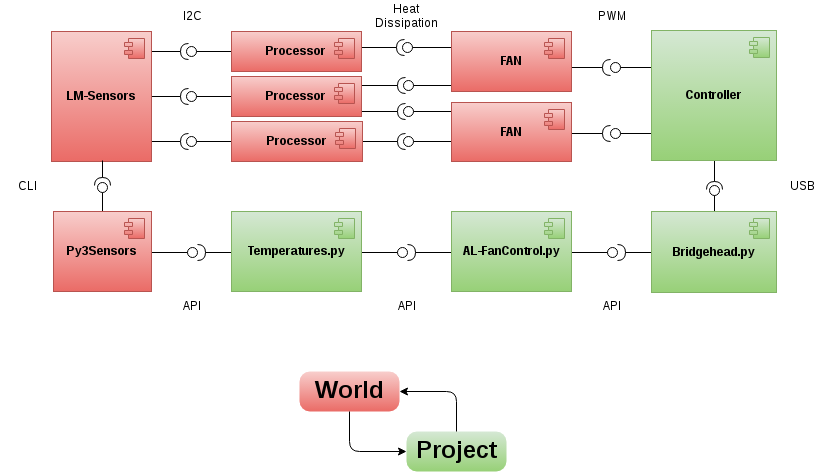
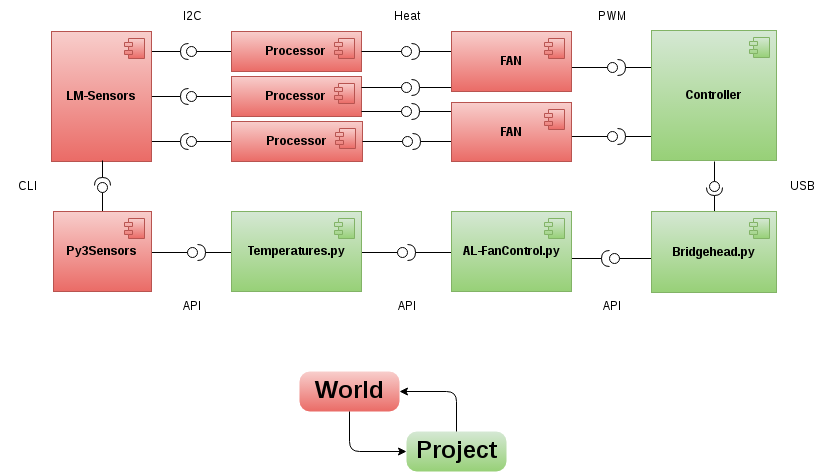
extend description of high level architecture

diff --git a/README.md b/README.md
@@ -1,17 +1,29 @@
 # AL-FanControl
 
-An application-level fan control for desktop PCs using Python, Arduino and PWM fans.
+An application-level fan control for desktop PCs
+    using Linux, Python, Arduino and PWM fans.
 
 ## Architecture
 
 AL-FanControl controls fans according to the system temperature.
-The main cause of heat in modern computers are the various processors
-    (GPU, CPU), but also memory (RAM, VRAM) and storage (HDDs, SSDs).
 The image below shows an exemplary setup of AL-FanControl
     with three processors and two fans.
-All fans provide heat dissipation to surrounding processors.
 
 ![](img/AL-FanControl-HighLevel-ComponentDiagram.png)
+
+The main heat sources in modern computers usually expose some sensors via I2C.
+These sensors can be read using LM-Sensors via an command line interface.
+Py3Sensors provides an API to Python2 and Python3 appications.
+This project's `Temperatures.py` reduces Py3Sensors API to temperature sensors.
+This project's main application is `AL-FanControl.py`,
+    which reacts to changed temperatures with changing the fan setpoints.
+To send the setpoints to the controller,
+    it uses the API of the `Bridgehead.py`.
+The `Bridgehead.py` uses a serial interface (USB)
+    to transfer the setpoints to the controller.
+The controller controls the fans
+    by setting its PWM outputs according to the setpoints.
+All fans dissipate heat from surrounding processors.
 
 ## Rationale
 
